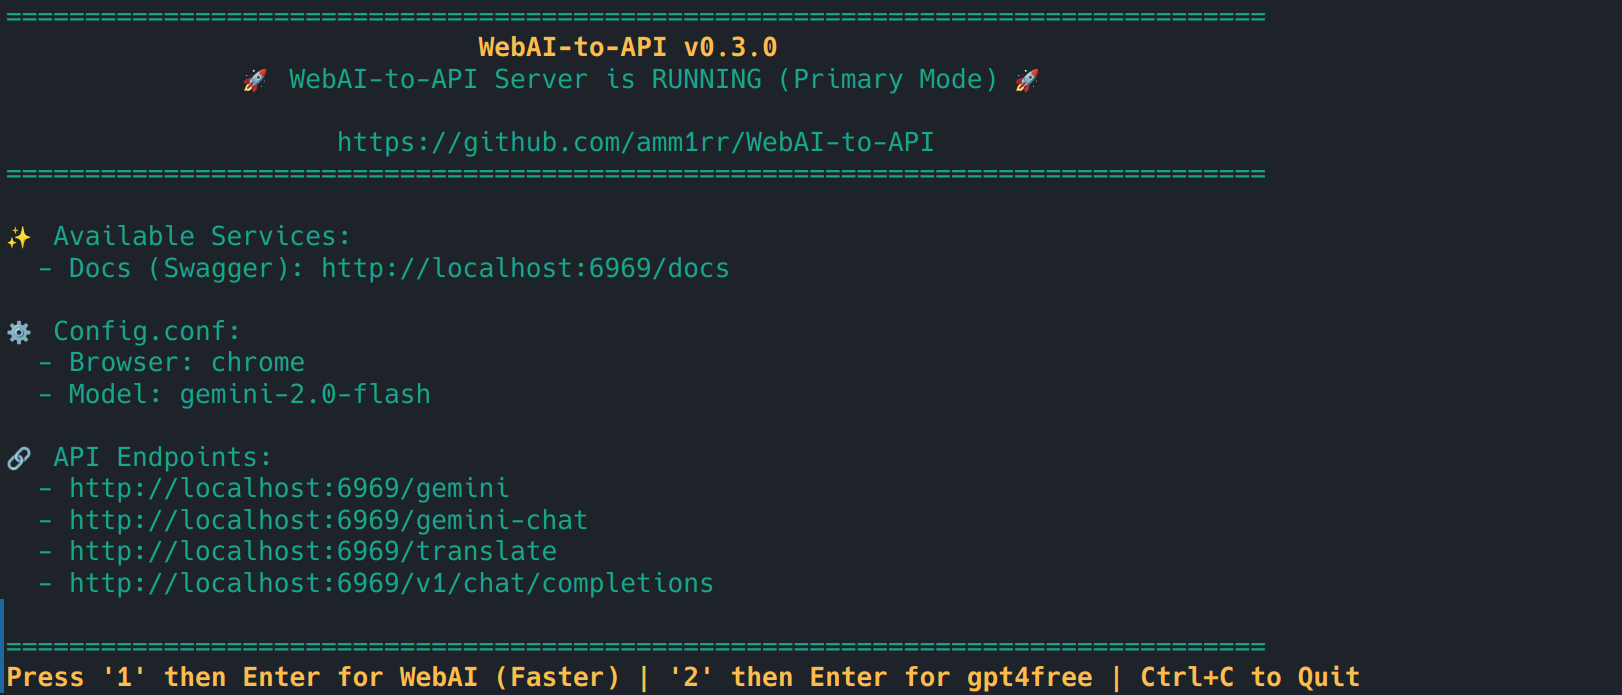
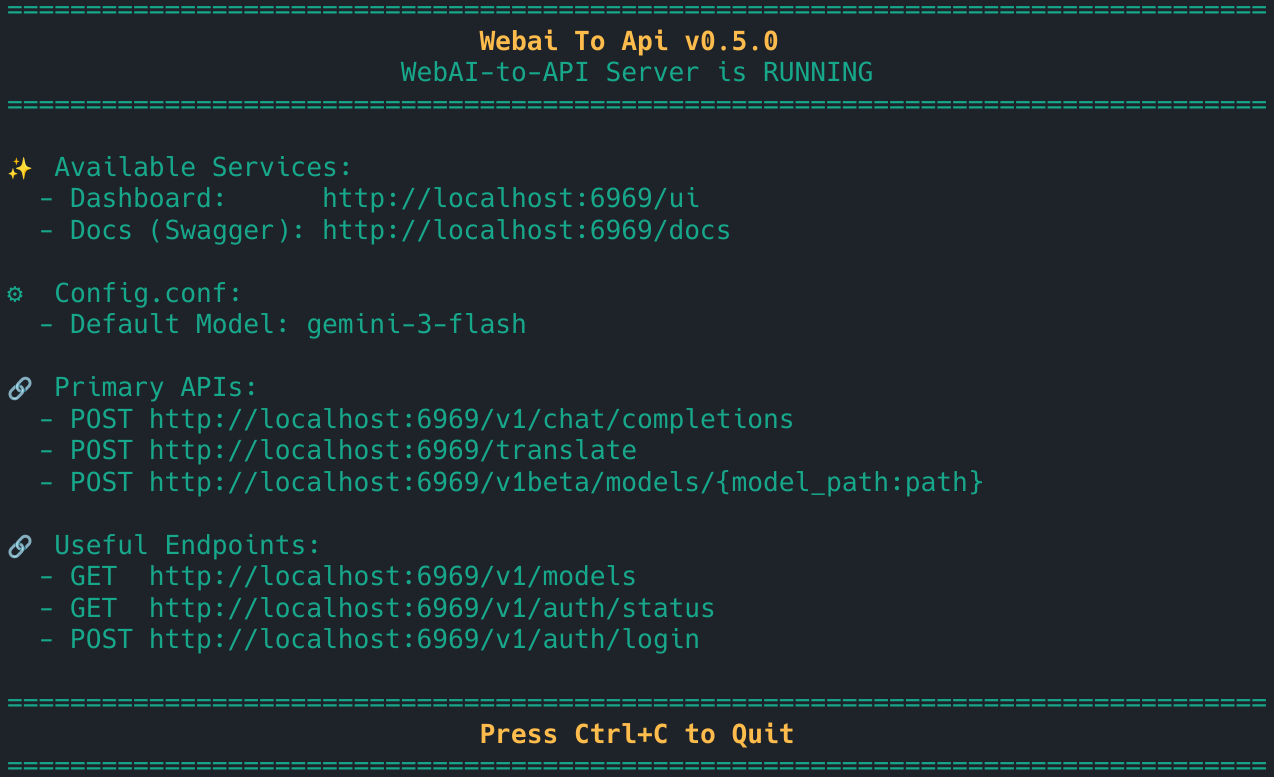
Improve README onboarding and documentation structure (#102)
* docs(readme): improve Gemini authentication setup documentation

* docs(readme): improve onboarding and model routing guidance

* docs(readme): improve quick start UX and documentation structure

* docs(readme): reorder footer sections

* docs(style): add Dashboard image to README and update asset files

* docs: Update Screenshot

Pull request: Improve README onboarding and documentation structure
## Summary

This PR improves the README onboarding experience by restructuring the documentation flow, adding authentication guidance, clarifying backend routing behavior, and refreshing project assets.

## Key Changes

* **Authentication Guide**: Added a dedicated Authentication section covering both Gemini WebAPI cookie-based authentication and Playwright browser-login authentication.
* **Quick Start Refresh**: Simplified the Quick Start section to focus on starting the server and sending the first successful request.
* **Model Routing Documentation**: Added a Model Routing section explaining backend selection and the use of prefixes such as `playwright/`.
* **README UX Improvements**: Added GitHub callouts (`IMPORTANT`, `TIP`, `NOTE`) to highlight common setup requirements and routing behavior.
* **Documentation Structure**: Reorganized README sections to improve onboarding flow and moved advanced and reference content out of the primary setup path.
* **Asset Updates**: Added a new dashboard screenshot, refreshed project images, and removed unused legacy assets.

## Testing

* Tests run: Not applicable
* Result: Documentation and asset changes only

## Notes

* No application code changes.
* No API behavior changes.

Changed region(s): [[0.0, 0.4532, 1.0, 0.9971], [0.0, 0.1813, 0.7959, 0.4532], [0.0, 0.0, 1.0, 0.1511]]

diff --git a/README.md b/README.md
@@ -2,6 +2,7 @@
 
 <p align="center">
   <img src="./assets/Server-Run-WebAI.png" alt="WebAI-to-API Server" height="160" />
+  <img src="./assets/Dashboard.png" alt="Dashboard" height="160" />
   <a href="https://www.atlascloud.ai/?utm_source=github&utm_medium=link&utm_campaign=WebAI-to-API">
     <img src="./assets/ATLAS_CLOUD_LOGO_BLACK.png" alt="Atlas Cloud" height="160" />
   </a>
@@ -59,17 +60,50 @@ cp config.conf.example config.conf
 
 Edit `config.conf` to match your environment.
 
-### Run
+### Authentication
+
+Gemini requires an authenticated Google session. Choose the authentication method that best matches your deployment.
+
+#### Which Authentication Method Should I Use?
+
+| Method | Recommended For |
+|----------|----------|
+| Manual Cookies | Quick testing and WebAPI-only usage |
+| Browser Login (`verify_login.py`) | Playwright backend, Docker deployments, and long-term usage |
+
+#### 1. Manual Cookies (Gemini WebAPI)
+Fastest setup for lightweight use.
+1. Sign in to [Gemini](https://gemini.google.com/).
+2. Press **F12** to open Developer Tools.
+3. Go to the **Network** tab and refresh the page.
+4. Select any request to **gemini.google.com** and copy the values for `__Secure-1PSID` and `__Secure-1PSIDTS` from the **Cookies** or **Headers** tab.
+5. Paste both values into the `[Gemini]` section of `config.conf`.
+
+#### 2. Browser Login (Playwright)
+Recommended for robustness and Docker deployments.
+
+> [!IMPORTANT]
+> `verify_login.py` requires a graphical desktop environment. Run it on your local machine, not inside a headless Docker container or a remote SSH session without GUI access.
+
+1. Run the interactive login helper:
+   ```bash
+   poetry run python verify_login.py
+   ```
+2. Complete the sign-in process in the browser window that opens.
+3. This creates `runtime/auth/gemini.json`, which is automatically used by the Playwright backend and can also be used by the WebAPI backend when cookie configuration is not provided.
+
+## Quick Start
+
+### 1. Start the Server
 
 ```bash
 poetry run python src/run.py
 ```
 
----
+> [!TIP]
+> If authentication is configured correctly, the startup banner will be displayed and the server will listen on port 6969.
 
-## Quick Start
-
-### Chat Completion
+### 2. Send Your First Request
 
 ```bash
 curl -X POST http://localhost:6969/v1/chat/completions \
@@ -85,31 +119,7 @@ curl -X POST http://localhost:6969/v1/chat/completions \
   }'
 ```
 
-### Delete Gemini WebAPI Conversation
-
-```bash
-curl -X DELETE http://localhost:6969/v1/conversations/{conversation_id}
-```
-
-This endpoint deletes Gemini WebAPI conversations created through local SQLite-backed conversation snapshots. Playwright and Atlas conversations are not supported.
-
-### Bulk Delete Gemini WebAPI Conversations
-
-```bash
-curl -X DELETE http://localhost:6969/v1/conversations
-```
-
-This endpoint best-effort deletes all locally persisted Gemini WebAPI conversation snapshots and their corresponding remote Gemini chats. Active conversations are skipped and reported in the response. Playwright and Atlas conversations are not supported.
-
-### List Gemini WebAPI Conversations
-
-```bash
-curl http://localhost:6969/v1/conversations
-```
-
-This endpoint lists locally persisted Gemini WebAPI conversation snapshots from SQLite. It does not restore conversations or call Gemini remote APIs. Playwright and Atlas conversations are not included.
-
-### Playwright Backend
+### 3. Force the Playwright Backend
 
 ```bash
 curl -X POST http://localhost:6969/v1/chat/completions \
@@ -125,6 +135,9 @@ curl -X POST http://localhost:6969/v1/chat/completions \
   }'
 ```
 
+> [!TIP]
+> The `playwright/` prefix forces the Playwright backend regardless of the default Gemini backend configured in `config.conf`.
+
 ---
 
 ## Supported Models
@@ -132,6 +145,21 @@ curl -X POST http://localhost:6969/v1/chat/completions \
 Available models may vary depending on the configured provider and backend.
 
 Use the `/v1/models` endpoint to retrieve the current list of supported models.
+
+---
+
+## Model Routing
+
+WebAI-to-API uses model prefixes to route requests to specific backends.
+
+| Model | Backend |
+|---------|---------|
+| `gemini-3-flash` | Gemini (default configured backend) |
+| `playwright/gemini-3-flash` | Gemini Playwright |
+| `atlas/...` | Atlas Cloud |
+
+> [!TIP]
+> Model prefixes force backend selection and override the default Gemini backend configured in `config.conf`.
 
 ---
 
@@ -144,6 +172,27 @@ Use the `/v1/models` endpoint to retrieve the current list of supported models.
 - [Dashboard Guide](docs/dashboard.md)
 
 Interactive API documentation is available through Swagger UI when the server is running.
+
+---
+
+## Conversation Management (WebAPI)
+
+These endpoints manage locally persisted Gemini WebAPI conversation snapshots and their corresponding remote chats.
+
+| Action      | Endpoint                      |
+| ----------- | ----------------------------- |
+| List        | GET /v1/conversations         |
+| Delete      | DELETE /v1/conversations/{id} |
+| Bulk Delete | DELETE /v1/conversations      |
+
+> [!NOTE]
+> Conversation persistence and management are currently supported only for the Gemini WebAPI backend.
+
+---
+
+## Star History
+
+[![Star History Chart](https://api.star-history.com/svg?repos=Amm1rr/WebAI-to-API\&type=Date)](https://www.star-history.com/#Amm1rr/WebAI-to-API&Date)
 
 ---
 
@@ -160,12 +209,6 @@ Commercial licensing options are available. See [COMMERCIAL_LICENSE.md](COMMERCI
 ## Contributing
 
 By submitting contributions to this project, you agree to the terms described in [CLA.md](CLA.md).
-
----
-
-## Star History
-
-[![Star History Chart](https://api.star-history.com/svg?repos=Amm1rr/WebAI-to-API\&type=Date)](https://www.star-history.com/#Amm1rr/WebAI-to-API&Date)
 
 <br>
 